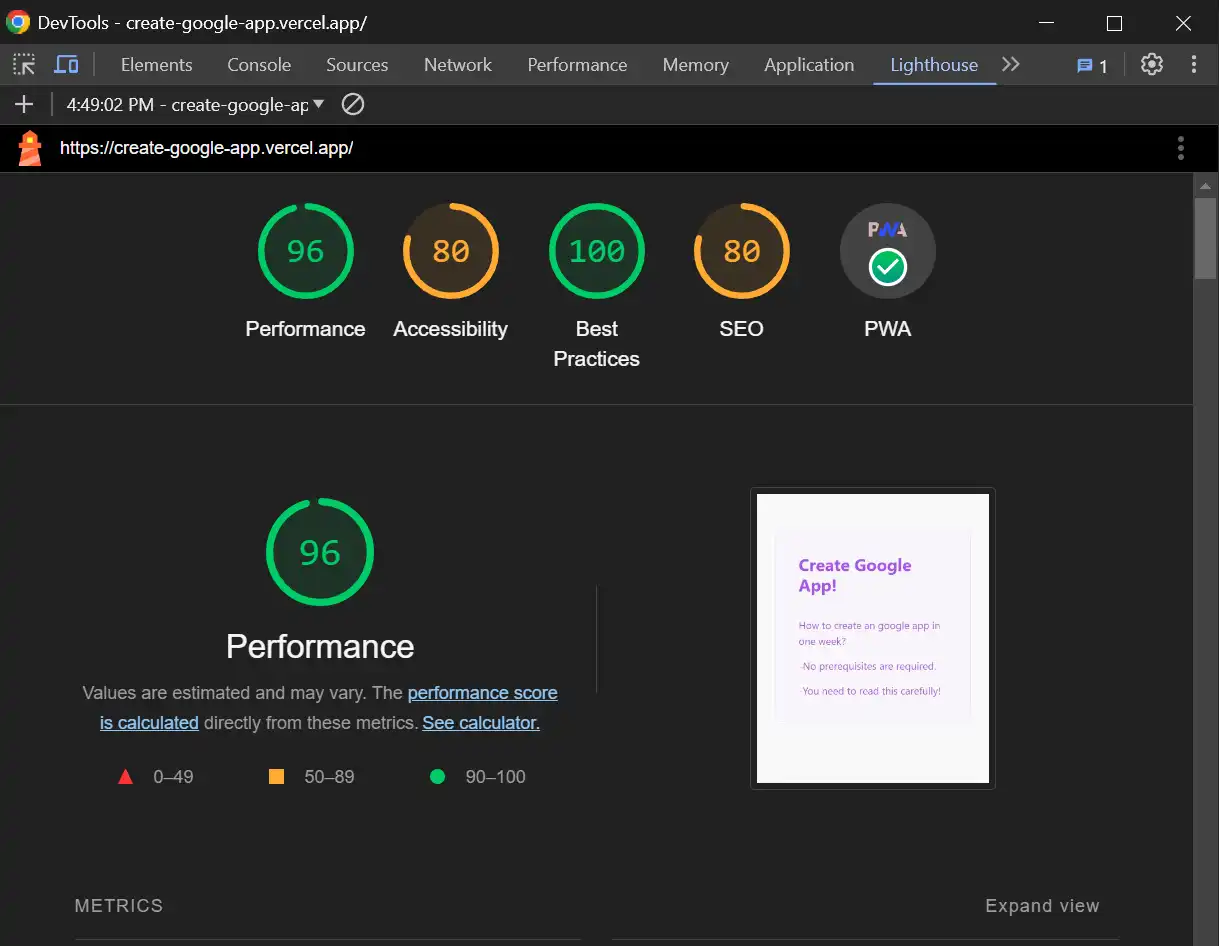
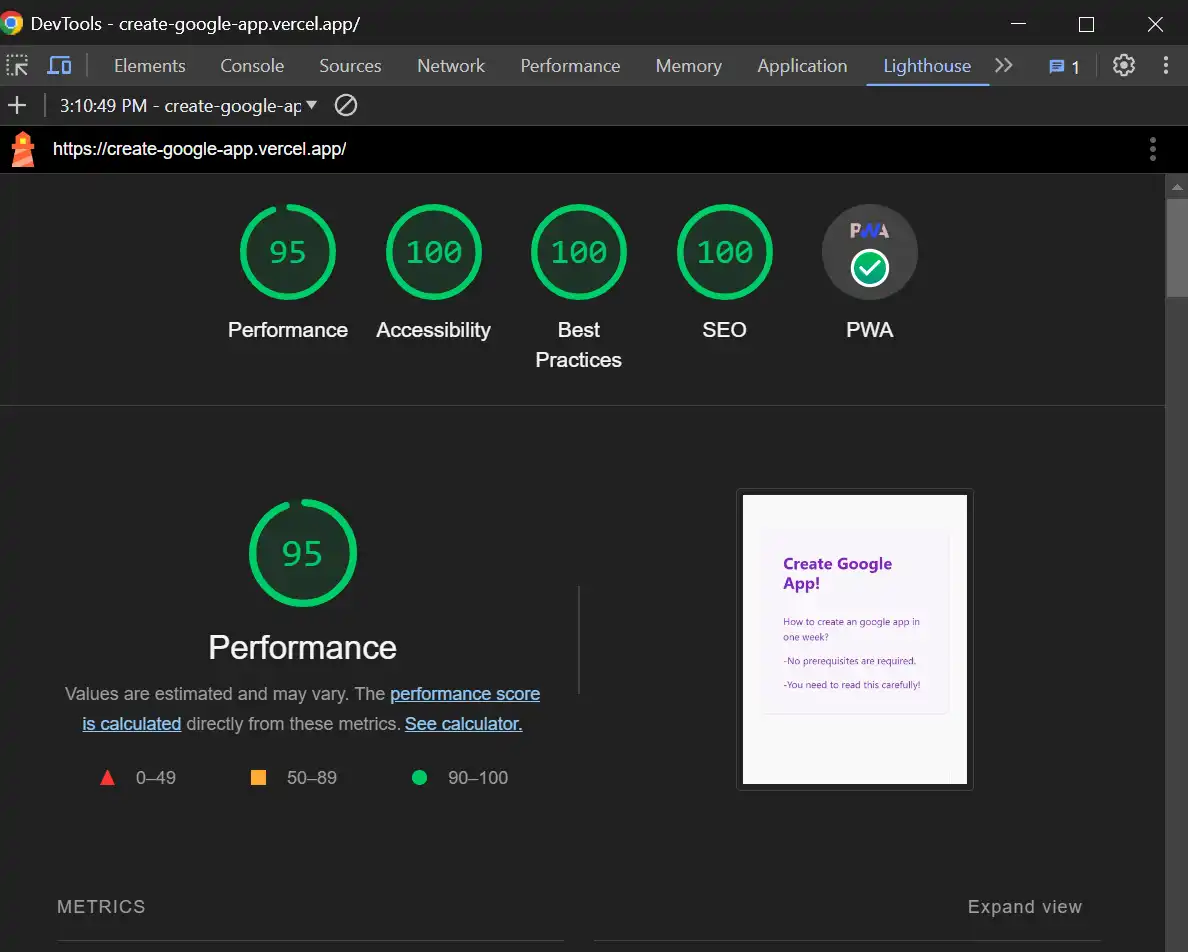
v1.0.0-rc.76
99% total in lighthouse report

diff --git a/README.md b/README.md
@@ -1,16 +1,14 @@
 # Create Google App
-Clone the repository or use it as a template. 
-- Follow the [documentation](https://create-google-app.vercel.app)/ guidlines for install, setup and all you need to on Google Play.
-
-You can `Get your app in the Google Pay Console in one (1) week`, if you read the documentation and [follow the guidlines](https://create-google-app.vercel.app). (I was working ten (10) weeks to reach this goal for my first app.)
+Clone this repository or use it as a template for a website.
+- The [documentation](https://create-google-app.vercel.app)/ guidlines shows how to install, setup and publishing it on Google Play.
 
 ## Futures
-| 100% Healt Score | Lighthouse report |
+| 100% Healt Score | Lighthouse => 99% |
 | --- | --- |
 |![](https://raw.githubusercontent.com/lovkyndig/create-google-app/main/public/webp/ahrefs-website-checker.webp) |![](https://raw.githubusercontent.com/lovkyndig/create-google-app/main/public/webp/lighthouse-report.webp)|  
 
 1. _100% Health Score_ with [ahrefs website-checker](https://ahrefs.com/website-checker):[^1]
-2. Lighthouse report on _Accessibility_, _Best Practices_, _SEO_ and _PWA_ (Progressive Web App):[^2]
+2. 100% in _Accessibility_, _Best Practices_, _SEO_ and _PWA_ (Progressive Web App) on [Lighthouse-report](https://pagespeed.web.dev/). 95% on _Performance_. Total 99%.[^2]
 
 _Full search functionality_  
 
@@ -46,7 +44,8 @@ _Extra Futures_
 ## To do-list (plan)
 ### Priority'
 - Check for indexing problem in [Google Search Console](https://search.google.com/search-console/about).
-- Use Bubblewrap and add app to Google Play Console
+- Finish the content with guidlines/ documentation.
+- Use Bubblewrap and add app to Google Play Console.
 
 ### On available capacity
 - Add [giscus](https://giscus.app/) - Follow this [tutorial](https://www.freecodecamp.org/news/github-discussions-as-chat-system/).
@@ -57,7 +56,7 @@ _Extra Futures_
 [MIT](./LICENSE)
 
 [^1]: Prov from 25.10.2023 - version 1.0.0-rc.66.
-[^2]: About the errors: 
+[^2]: _((4 x 100)% + 95)%/5_ = **99%**. The use of Nuxt3 as framework prevents 100% on performance (as I can see of the report from Lighthouse).
 [^3]: The bundle that is used for searching is normally created on generate. If you are using .playground (and want to test it there), you can use this command to create the bundle: `- npx -y pagefind --site .output/public --output-path public/_pagefind`. - Maybe you need to change `--site .output/public` to `--site ../.output/public`.
 [^4]: The style and the _find-next-btn_ isn't good, and you are welcome to do it better. See FindNext-component and the find-next.svg.
 [^5]: Most of the accordion functions are from [BlogiNote](https://github.com/Benbinbin/BlogiNote). - style.css is added in assets-folder with style for the accordions. - All headers is collapsed and the Catalog (Table of contents) is closed on load, except; - The headers is not collapsed when using the search-functionality.
@@ -75,4 +74,4 @@ _Extra Futures_
 [^17]: Vercel Analytics don't use cookies and this app isn't using cookies at all, therefore it's not need for a plugin that pop up with a question if you accept cookies.
 [^18]: google.site-verification-file is necessary for indexing the pages in [google-search-console](https://search.google.com/search-console/about), and for using [Ahrefs website-checker](https://ahrefs.com/website-checker).
 
-Updated 25.10.2023
+Updated 26.10.2023
